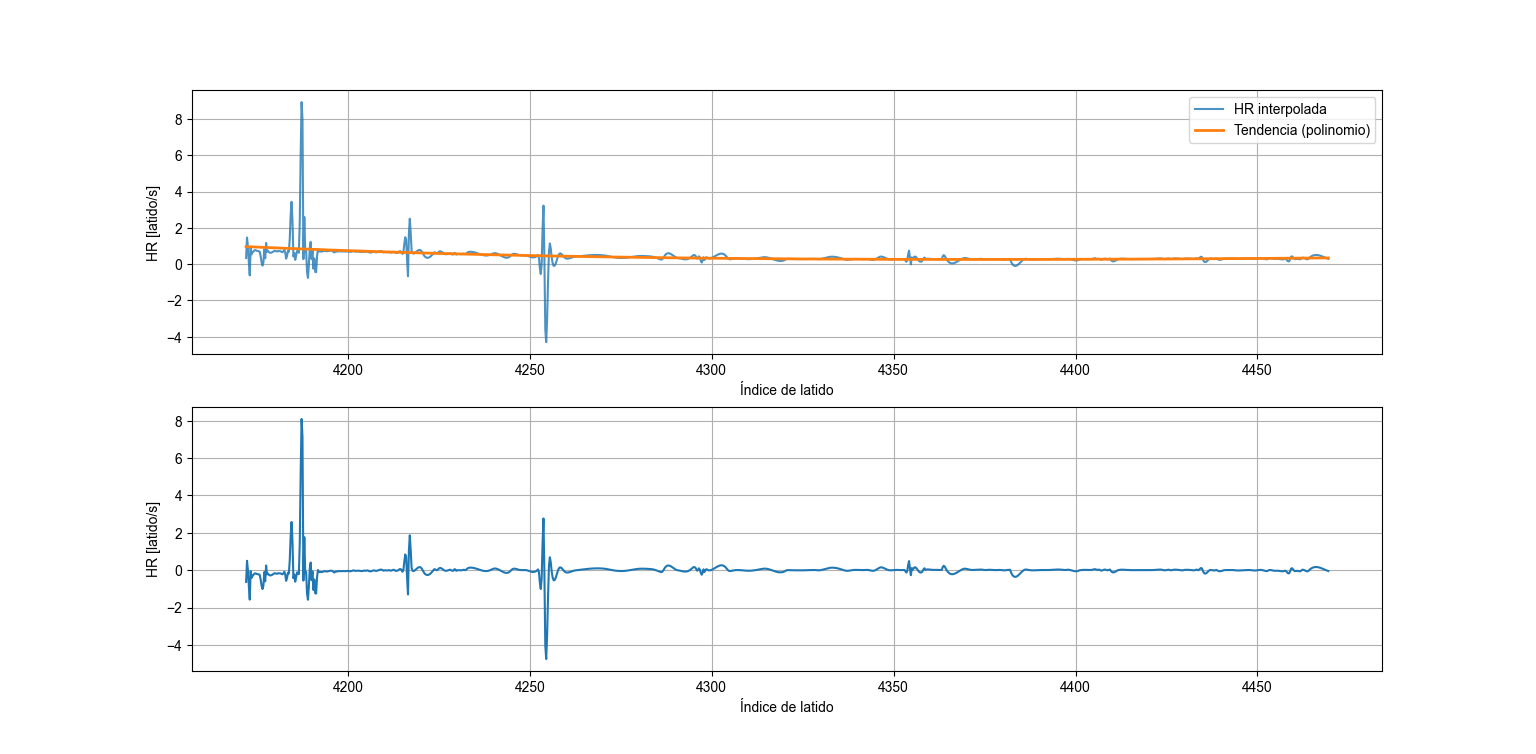
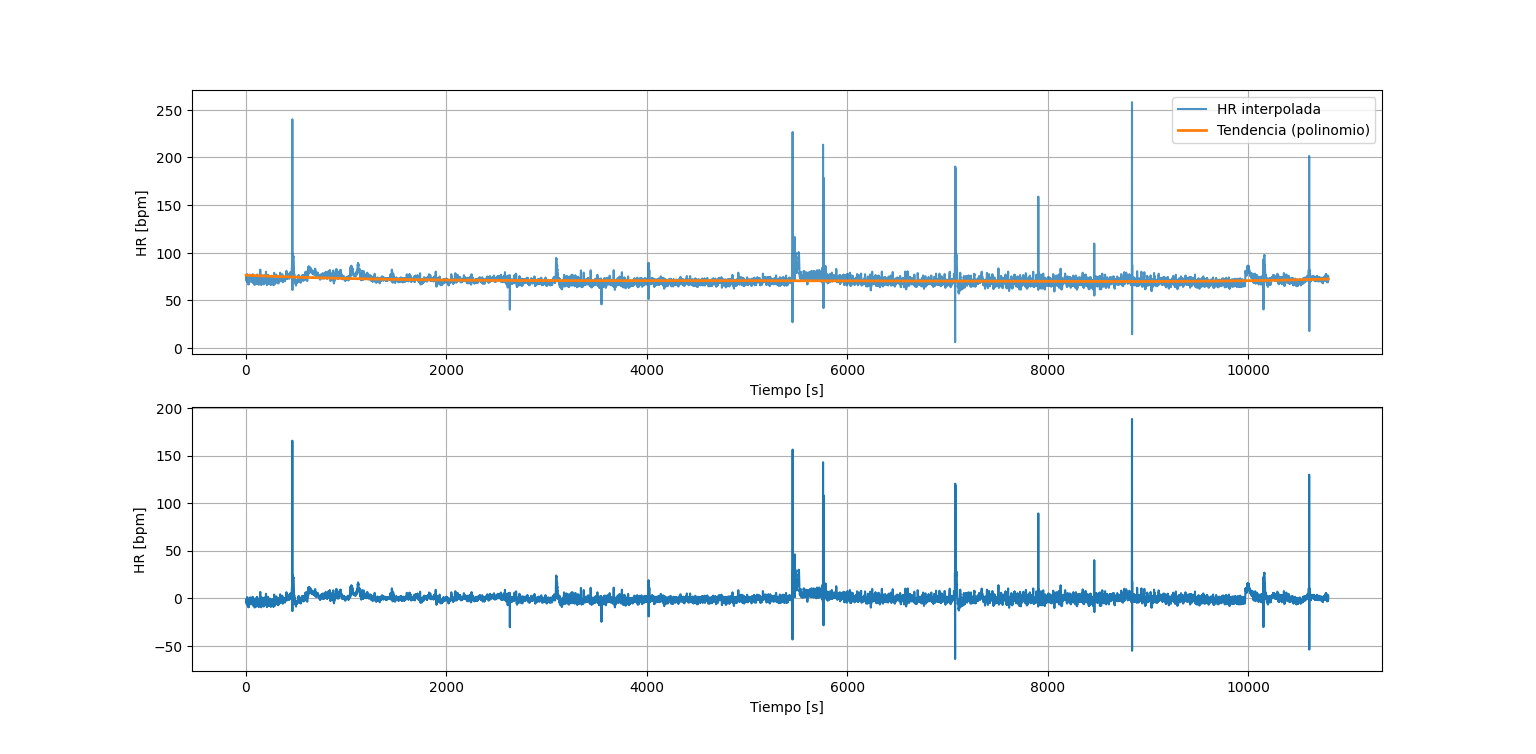
.

diff --git a/periodograma.py b/periodograma.py
@@ -21,20 +21,20 @@ def fft_pre_post(
     banda=(0.01, 0.1),
     xlim=(0, 0.4),
     db=False,
-    mostrar= True,
+    mostrar=False,
     name="HR FFT"
 ):
 
     def _fft(x):
         x = np.asarray(x)
-        x = x - np.mean(x)  #saco la media        
+        x = x - np.mean(x)
         N = len(x)
 
         X = np.fft.fft(x)
         f = np.fft.fftfreq(N, d=1/fs)
 
         mask = f >= 0
-        return f[mask], np.abs(X[mask])**2 #solo frecuencias positivas
+        return f[mask], np.abs(X[mask])**2
 
     # FFT
     f_pre, P_pre = _fft(x_pre)
@@ -42,44 +42,52 @@ def fft_pre_post(
 
     if mostrar:
         eps = 1e-12
-
         fig, axs = plt.subplots(2, 1, figsize=(12, 8), sharex=True)
 
         f_lo, f_hi = banda
 
+        # ===== Cálculo de ylim común =====
+        if db:
+            P_pre_plot = 10 * np.log10(P_pre + eps)
+            P_post_plot = 10 * np.log10(P_post + eps)
+
+            ymin = min(P_pre_plot.min(), P_post_plot.min())
+            ymax = max(P_pre_plot.max(), P_post_plot.max())
+        else:
+            ymin = 0
+            ymax = max(P_pre.max(), P_post.max())
+
+        ylim = (ymin, ymax)
+
         # ===== PRE ICTAL =====
         if db:
-            axs[0].plot(f_pre, 10*np.log10(P_pre + eps),
-                        linewidth=2, label="PRE ICTAL")
+            axs[0].plot(f_pre, P_pre_plot, linewidth=2, label="PRE ICTAL")
             axs[0].set_ylabel("Amplitud espectral [dB]")
         else:
-            axs[0].plot(f_pre, P_pre,
-                        linewidth=2, label="PRE ICTAL")
+            axs[0].plot(f_pre, P_pre, linewidth=2, label="PRE ICTAL")
             axs[0].set_ylabel("Amplitud espectral")
 
         axs[0].axvspan(f_lo, f_hi, color="green", alpha=0.15)
         axs[0].axvline(f_lo, color="green", linestyle="--", alpha=0.8)
         axs[0].axvline(f_hi, color="green", linestyle="--", alpha=0.8)
-
+        #axs[0].set_ylim(ylim)
         axs[0].set_title("PRE ICTAL")
         axs[0].grid(True)
         axs[0].legend()
 
         # ===== POST ICTAL =====
         if db:
-            axs[1].plot(f_post, 10*np.log10(P_post + eps),
-                        linewidth=2, label="POST ICTAL")
+            axs[1].plot(f_post, P_post_plot, linewidth=2, label="POST ICTAL")
             axs[1].set_ylabel("Amplitud espectral [dB]")
         else:
-            axs[1].plot(f_post, P_post,
-                        linewidth=2, label="POST ICTAL")
+            axs[1].plot(f_post, P_post, linewidth=2, label="POST ICTAL")
             axs[1].set_ylabel("Amplitud espectral")
 
         axs[1].axvspan(f_lo, f_hi, color="green", alpha=0.15,
-                    label=f"Banda {f_lo}–{f_hi} Hz")
+                       label=f"Banda {f_lo}–{f_hi} Hz")
         axs[1].axvline(f_lo, color="green", linestyle="--", alpha=0.8)
         axs[1].axvline(f_hi, color="green", linestyle="--", alpha=0.8)
-
+        #axs[1].set_ylim(ylim)
         axs[1].set_title("POST ICTAL")
         axs[1].grid(True)
         axs[1].legend()
@@ -87,15 +95,13 @@ def fft_pre_post(
         # ===== Ajustes comunes =====
         axs[1].set_xlim(xlim)
         axs[1].set_xlabel("Frecuencia [Hz]")
-
-        axs[0].set_ylim(0, 250)
-        axs[1].set_ylim(0, 250)
-
         fig.suptitle(f"FFT ritmo cardíaco – {name}", fontsize=14)
+
         plt.tight_layout(rect=[0, 0, 1, 0.96])
         plt.show()
 
     return f_pre, P_pre, f_post, P_post
+
 
 # %%FFT
 def transformada_rapida(x, name, fs_hr=4, mostrar=False):
@@ -117,7 +123,7 @@ def transformada_rapida(x, name, fs_hr=4, mostrar=False):
     if mostrar:
         plt.figure(figsize=(20, 10))
         plt.plot(Ff, PDS, 'x-', label='FFT')
-        plt.xlim([0, fs_hr/2])
+        plt.xlim([0, 0.5])
         plt.title("PDS [dB] ")
         plt.xlabel('Frecuencia [Hz]')
         plt.ylabel('PDS [dB]')
@@ -129,16 +135,38 @@ def transformada_rapida(x, name, fs_hr=4, mostrar=False):
     return Ff, PDS
 
 # %% PSD POR WELCH
-def welch_psd(x,fs_hr=4, win = "hamming"):
+import numpy as np
+from scipy.signal import welch, detrend
 
-    #.shape devuelve tuplas con las dimensiones del array
-    N = x.shape[0] #solo el elemento 0 --> largo
-    # Parámetros de Welch
-    cant_promedios = 30
-    nperseg = N// cant_promedios
-    nfft = 3 * nperseg
+def welch_psd(x, fs=4):
 
-    f, Pxx = welch(x, window=win, fs= fs_hr, nperseg=nperseg, nfft=nfft, return_onesided=True, average='median', scaling='density')
+    x = np.asarray(x)
+    N = len(x)
+
+    # === Parámetros Welch conservadores ===
+    cant_segmentos = 4                 # CLAVE: pocos segmentos para no matar las oscilaciones
+    nperseg = N // cant_segmentos
+    noverlap = nperseg // 2
+
+    # Zero padding moderado (mejora visual, no resolución real)
+    nfft = 2 * nperseg
+
+    # Ventana suave, pero sin excesiva pérdida de amplitud
+    window = np.hanning(nperseg)
+
+    f, Pxx = welch(
+        x,
+        fs=fs,
+        window=window,
+        nperseg=nperseg,
+        noverlap=noverlap,
+        nfft=nfft,
+        detrend=False,
+        scaling='density',
+        average='mean',
+        return_onesided=True
+    )
+
     return f, Pxx
 
 # %% Resultados finales

diff --git a/trabajo_final_21.py b/trabajo_final_21.py
@@ -13,8 +13,6 @@ import leer_archivo
 import filtrado_ecg
 import periodograma
 import rr_hr
-import presentacion_datos
-import wfdb
 
 # %% Invocacion de funciones presentacion de los datos
 
@@ -24,28 +22,28 @@ def analizar_paciente(record_name):
     ecg, t, fs, seizure_times, r_peaks = leer_archivo.leer_archivo(record_name)
 
     # %% construccion intervalos RR y frecuencia cardiaca 
-    rr, hr, t_hr=rr_hr.const_RR(r_peaks, fs)
+    rr, hr, t_hr=rr_hr.const_RR(r_peaks)
 
     # %% definicion ventana preictal y postictal
-    ventana_pre = [seizure_times[0][0] - 240, seizure_times[0][0]-100]
+    ventana_pre = [seizure_times[0][0] - 240, seizure_times[0][0]-120]
     mask_pre = (t_hr >= ventana_pre[0]) & (t_hr <= ventana_pre[1])
     hr_pre = hr[mask_pre]
     t_pre = t_hr[mask_pre]
 
-    ventana_post = [seizure_times[0][1]+140, seizure_times[0][1] + 470]
+    ventana_post = [seizure_times[0][1]+120, seizure_times[0][1] + 300]
     mask_post = (t_hr >= ventana_post[0]) & (t_hr <= ventana_post [1])
     hr_post = hr[mask_post]
     t_post = t_hr[mask_post]
 
-    rr_hr.chequeo(t_hr, hr, t_pre, hr_pre, t_post, hr_post, seizure_times)
+    #rr_hr.chequeo(t_hr, hr, t_pre, hr_pre, t_post, hr_post, seizure_times)
 
     # %% detrend polinomio
     # TOTAL
-    tu, hr_u, hr_dt, trend = filtrado_ecg.interp_y_detrend(t_hr, hr, fs=4.0, deg=4)
+    tu, hr_u, hr_dt, trend = filtrado_ecg.interp_y_detrend(t_hr, hr)
     # PRE
-    tu_pre, hr_pre_u, hr_pre_dt, trend_pre = filtrado_ecg.interp_y_detrend(t_pre, hr_pre, fs=4.0, deg=4)
+    tu_pre, hr_pre_u, hr_pre_dt, trend_pre = filtrado_ecg.interp_y_detrend(t_pre, hr_pre)
     # POST
-    tu_post, hr_post_u, hr_post_dt, trend_post = filtrado_ecg.interp_y_detrend(t_post, hr_post, fs=4.0, deg=4)
+    tu_post, hr_post_u, hr_post_dt, trend_post = filtrado_ecg.interp_y_detrend(t_post, hr_post)
 
     # %% Espectro
     # por FFT
@@ -53,8 +51,8 @@ def analizar_paciente(record_name):
     ff_post_fft, psd_post_fft= periodograma.transformada_rapida(hr_post_dt, "FFT HR det post")
 
     # Welch
-    ff_pre_welch, psd_pre_welch= periodograma.transformada_rapida(hr_pre_dt, "Welch HR det pre")
-    ff_post_welch, psd_post_welch= periodograma.transformada_rapida(hr_post_dt, "Welch HR det post")
+    ff_pre_welch, psd_pre_welch= periodograma.welch_psd(hr_pre_dt)
+    ff_post_welch, psd_post_welch= periodograma.welch_psd(hr_post_dt)
 
     # Resultados finales
     #periodograma.presentacion_datos(ff_pre_fft, psd_pre_fft, ff_post_fft, psd_post_fft, name="PSD HR FFT")

diff --git a/filtrado_ecg.py b/filtrado_ecg.py
@@ -16,7 +16,7 @@ from scipy.interpolate import CubicSpline
 
 # %% Detrend polinomio grado 4
 
-def interp_y_detrend(t, x, fs=4.0, deg=4, method="cubic", mostrar= True):
+def interp_y_detrend(t, x, fs=4.0, deg=4, method="cubic", mostrar= False):
     """ 
     tomo una frecuencia de muestreo regular, 4 es lo tipico para hr
     grado 4 como en el paper
@@ -61,7 +61,7 @@ def interp_y_detrend(t, x, fs=4.0, deg=4, method="cubic", mostrar= True):
         plt.subplot(2,1,1)
         plt.plot(tu, xu, label="HR interpolada", alpha=0.8)
         plt.plot(tu, trend, label="Tendencia (polinomio)", linewidth=2)
-        plt.ylabel("HR [latido/s]")
+        plt.ylabel("HR [bpm]")
         plt.xlabel("Tiempo [s]")
         plt.grid(True)
         plt.legend()
@@ -70,7 +70,7 @@ def interp_y_detrend(t, x, fs=4.0, deg=4, method="cubic", mostrar= True):
         plt.plot(tu, xu_dt, label="HR detrendeada")
         plt.grid(True)
         plt.xlabel("Tiempo [s]")
-        plt.ylabel("HR [latido/s]")
+        plt.ylabel("HR [bpm]")
 
     #tu : tiempos uniformes, xu : señal interpolada, xudt: señal interpolada y detrendeada, trend : tendencia estimada (polinomio)
     return tu, xu, xu_dt, trend
@@ -78,7 +78,7 @@ def interp_y_detrend(t, x, fs=4.0, deg=4, method="cubic", mostrar= True):
 
 
 # %%Filtrado LINEAL ECG
-def ecg_filter_butter(ecg, t, mostrar= True):
+def ecg_filter_butter(ecg, t, mostrar= False):
 
     fs = variables_globales.fs
 

diff --git a/rr_hr.py b/rr_hr.py
@@ -12,22 +12,21 @@ import numpy as np
 import numpy as np
 import matplotlib.pyplot as plt
 
-def const_RR(latidos, fs, mostrar=True):
-    latidos = np.asarray(latidos) #paso latidos a array
+def const_RR(latidos, mostrar=False):
+    latidos = np.asarray(latidos)#paso latidos a array
     rr_vect= np.diff(latidos)
     hr = 60/rr_vect 
-    t_latidos= latidos/fs #esta en muestras
-    t_hr = t_latidos[:-1] + rr_vect/2  #[:-1] --> Toma todos menos el último
+    t_hr = latidos[:-1] + rr_vect/2  #[:-1] --> Toma todos menos el último
     if mostrar:
        plt.figure(figsize=(12, 8))
        # Subplot 1: RR
        plt.subplot(2, 1, 1)
        plt.plot(rr_vect, label='Segmentos RR')
-       plt.xlabel('Índice de latido')
-       plt.ylabel('RR [ms]')
+       plt.xlabel('# Indice de latido')
+       plt.ylabel('RR [s]')
        plt.grid(True)
        plt.legend()
-       plt.title("Construcción del vector RR")
+       #plt.title("Construcción del vector RR")
        
        plt.subplot(2, 1, 2)
        plt.plot(t_hr,hr, label='Frecuencia cardiaca')
@@ -47,7 +46,7 @@ def chequeo (t_hr, hr, t_pre, hr_pre, t_post, hr_post, seizure_time):
     plt.axvline(seizure_time[0][0], color='k', linestyle='--', label='Onset')
     plt.axvline(seizure_time[0][1], color='k', linestyle='--')
     plt.xlabel('Tiempo [s]')
-    plt.ylabel('HR [latido/s]')
+    plt.ylabel('HR [bpm]')
     plt.legend()
     plt.grid(True)
     plt.show()

diff --git a/leer_archivo.py b/leer_archivo.py
@@ -70,7 +70,7 @@ def leer_archivo(record_name="sz01", mostrar= False):
             plt.title(f"{record_name} – Seizure {i+1}")
             plt.grid(True)
             plt.show()
-
+    r_peaks= r_peaks / fs # latidos en tiempo
     return ecg, t, fs, seizure_times, r_peaks
 
 def hms_to_seconds(hms): # de hh:mm:ss a entero
